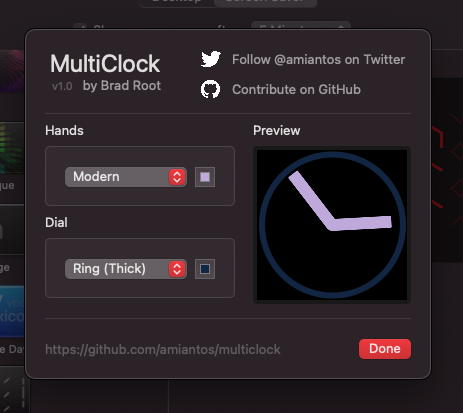
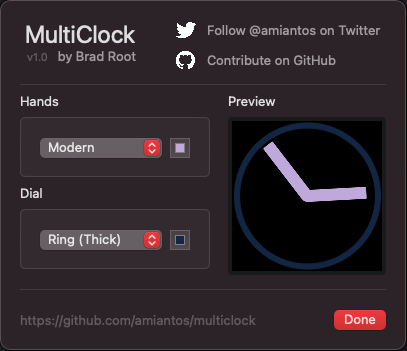
try to display the preview and configure sheet side by side

diff --git a/README.md b/README.md
@@ -1,16 +1,12 @@
 # MultiClock
 
-MultiClock is a screensaver for macOS that displays the current time using 24 different clocks.
+MultiClock is a screensaver for macOS that displays the current time using 24 different clocks. MultiClock is very configurable, with a small variety of hand and dial styles and the ability to customize the color of each.
 
 ## Preview
 
 *Note: This gif has a low framerate. The screensaver itself operates at a fluid 60 FPS.*
 
-![Preview animation of MultiClock screensaver showing 24 clocks rotate to show the numbers 1234, then a pattern, before rotating back to midnight.](/.github/low-framerate-preview.gif?raw=true)
-
-MultiClock is very configurable, with a small variety of hand and dial styles and the ability to customize the color of each.
-
-![Configuration sheet for the screensaver, showing customizable colors and alternate hand and dial designs](/.github/configure-sheet.png?raw=true)
+![Preview animation of MultiClock screensaver showing 24 clocks rotate to show the numbers 1234, then a pattern, before rotating back to midnight.](/.github/low-framerate-preview.gif?raw=true) ![Configuration sheet for the screensaver, showing customizable colors and alternate hand and dial designs](/.github/configure-sheet.png?raw=true)
 
 ## Credits
 
